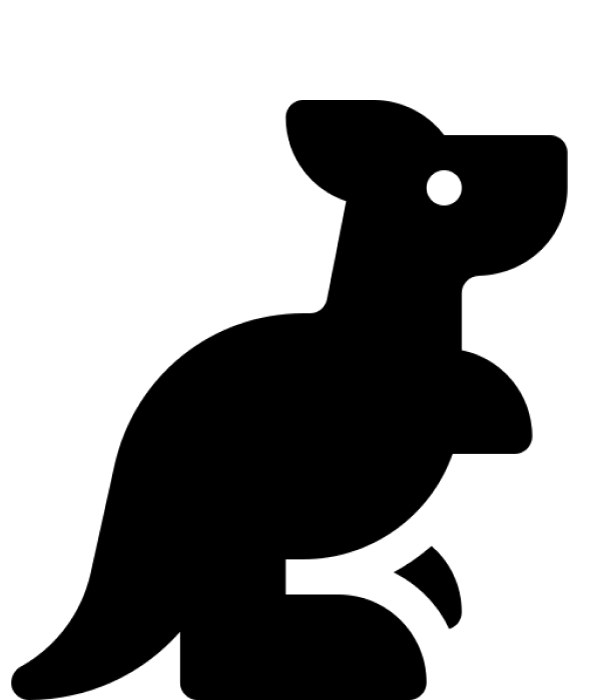
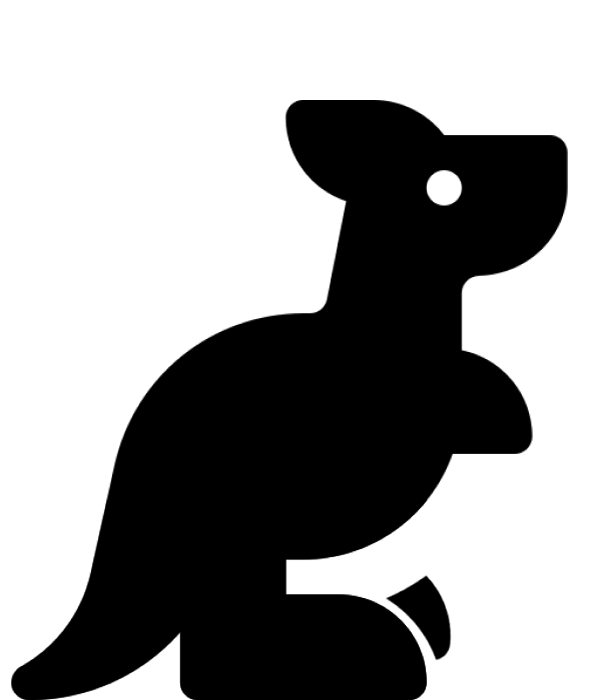
moved left foot

diff --git a/roo.html b/roo.html
@@ -54,14 +54,15 @@
                     <div class="accessory greenBand" data-hat="diamondEarring" onClick="loadHat(this)">Diamond</div>
                     <div class="accessory pinkHat" data-hat="bucketHatSide" onClick="loadHat(this)">Bucket</div>
                     <div class="accessory blueHat" data-hat="baseballCap" onClick="loadHat(this)">Cap</div>
+                    <div class="accessory greenBand" data-hat="headphone" onClick="loadHat(this)">Headphones</div>
                 </div>
                 <h3>Top</h3>
                 <div class="indivAccessorySlider">
-                    <div class="accessory redTop" data-top="red" onClick="loadTop(this)"></div>
-                    <div class="accessory purpleTop" data-top="purple" onClick="loadTop(this)"></div>
-                    <div class="accessory greenTop" data-top="green" onClick="loadTop(this)"></div>
-                    <div class="accessory pinkTop" data-top="pink" onClick="loadTop(this)"></div>
-                    <div class="accessory blueTop" data-top="blue" onClick="loadTop(this)"></div>
+                    <div class="accessory redTop" data-top="jetpack" onClick="loadTop(this)">Jetpack</div>
+                    <div class="accessory purpleTop" data-top="singlet" onClick="loadTop(this)">Singlet</div>
+                    <div class="accessory greenTop" data-top="jacket" onClick="loadTop(this)">Jacket</div>
+                    <div class="accessory pinkTop" data-top="tshirt" onClick="loadTop(this)">T-Shirt</div>
+                    <div class="accessory blueTop" data-top="formal" onClick="loadTop(this)">Formal</div>
                 </div>
                 <h3>Shoes</h3>
                 <div class="indivAccessorySlider">

diff --git a/scripts/roo.js b/scripts/roo.js
@@ -8,8 +8,8 @@ function loadShoe(e){
 }
 
 function loadTop(e){
-    document.querySelector("#topImg").src= "images/tops/" + e.dataset.top + "_top.png";
-    localStorage.setItem("top", ("images/tops/" + e.dataset.top + "_top.png"));
+    document.querySelector("#topImg").src= "images/tops/" + e.dataset.top + ".png";
+    localStorage.setItem("top", ("images/tops/" + e.dataset.top + ".png"));
 }
 
 function loadHat(e){
@@ -41,6 +41,8 @@ $(document).ready(function(){
             document.querySelector("#shoesImg").src= shoesUrl;
         }
     }
+
+
 
   });
 
